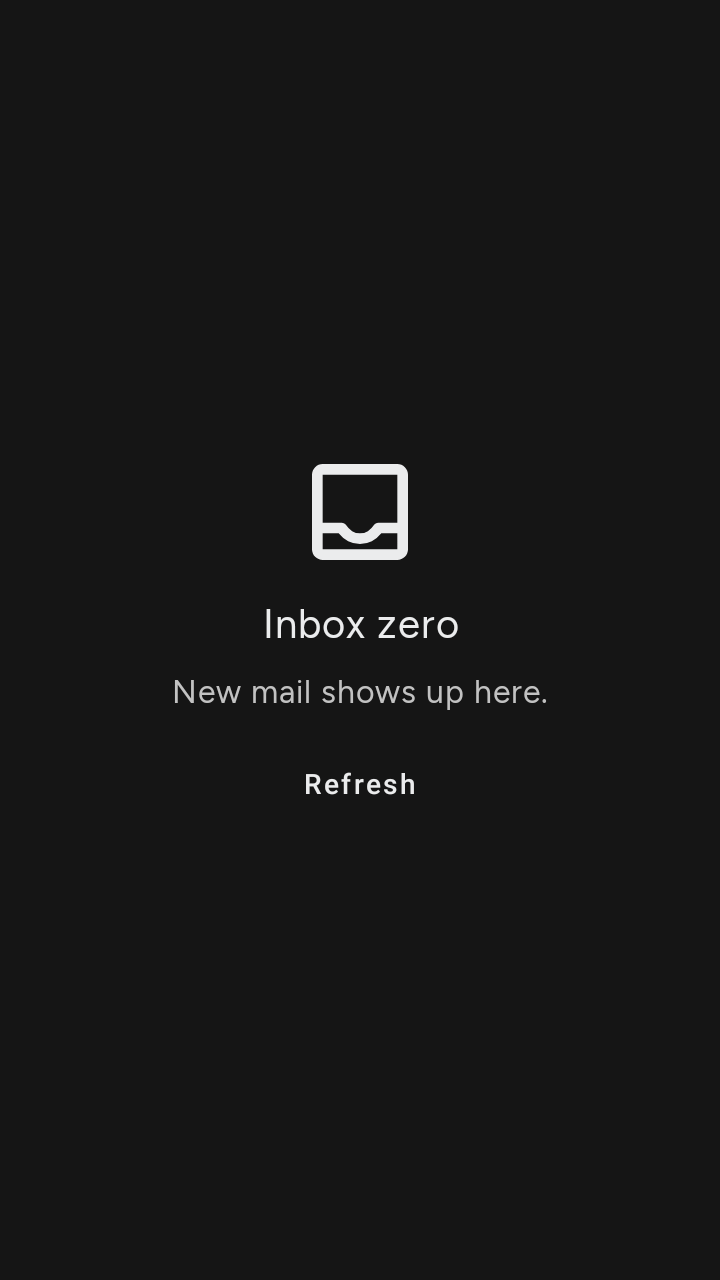
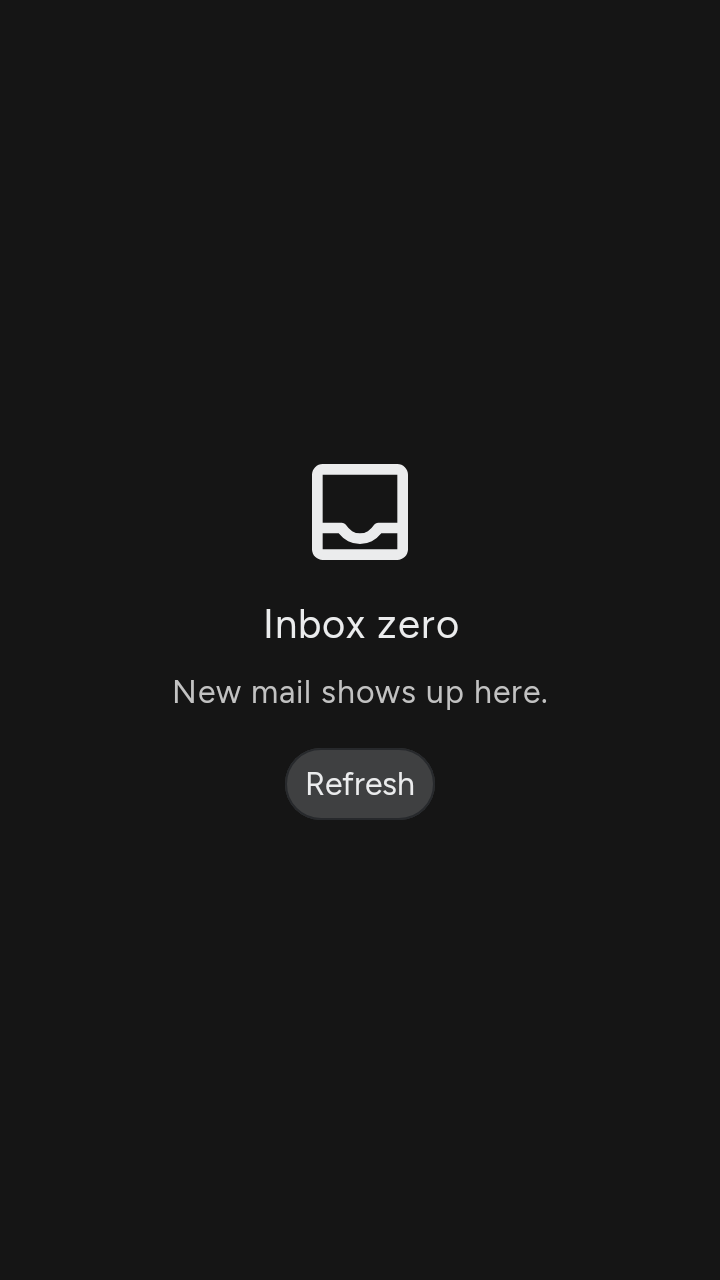
feat(designsystem): show the empty state action as a pill
- Replace the empty state's text button with a ButtonPill filled with bgLight.
- Add a fill parameter to ButtonPill; the default stays bgDark.
- Re-record the empty state screenshot with an action.

Changed region(s): [[0.3972, 0.5625, 0.6111, 0.6562]]

diff --git a/designsystem/src/commonMain/kotlin/com/otus/designsystem/components/EmptyState.kt b/designsystem/src/commonMain/kotlin/com/otus/designsystem/components/EmptyState.kt
@@ -8,11 +8,11 @@ import androidx.compose.foundation.layout.padding
 import androidx.compose.foundation.rememberScrollState
 import androidx.compose.foundation.verticalScroll
 import androidx.compose.material.Text
-import androidx.compose.material.TextButton
 import androidx.compose.runtime.Composable
 import androidx.compose.ui.Alignment
 import androidx.compose.ui.Modifier
 import androidx.compose.ui.text.style.TextAlign
+import com.otus.designsystem.elements.ButtonPill
 import com.otus.designsystem.elements.Symbol
 import com.otus.designsystem.theme.InboxTokens
 import com.otus.designsystem.theme.OtusColors
@@ -47,7 +47,7 @@ public fun EmptyState(
                 color = OtusColors.text2,
                 textAlign = TextAlign.Center,
             )
-            if (actionLabel != null) TextButton(onClick = onAction) { Text(actionLabel) }
+            if (actionLabel != null) ButtonPill(actionLabel, onAction, fill = OtusColors.bgLight)
         }
     }
 }

diff --git a/designsystem/src/commonMain/kotlin/com/otus/designsystem/elements/ButtonPill.kt b/designsystem/src/commonMain/kotlin/com/otus/designsystem/elements/ButtonPill.kt
@@ -15,16 +15,20 @@ import com.otus.designsystem.theme.ComposeTokens
 import com.otus.designsystem.theme.OtusColors
 import com.otus.designsystem.theme.panelTextStyle
 
-/** A pill that acts, such as "+ Cc", with an optional [leading] icon. Screen readers read [description]. */
+/**
+ * A pill that acts, such as "+ Cc", with an optional [leading] icon, filled with [fill]. Screen
+ * readers read [description].
+ */
 @Composable
 public fun ButtonPill(
     label: String,
     onClick: () -> Unit,
     modifier: Modifier = Modifier,
     description: String = label,
+    fill: Color = OtusColors.bgDark,
     leading: (@Composable () -> Unit)? = null,
 ) {
-    ChipFrame(onClick, modifier.semantics { contentDescription = description }, null, true, OtusColors.bgDark) {
+    ChipFrame(onClick, modifier.semantics { contentDescription = description }, null, true, fill) {
         leading?.invoke()
         ChipText(label)
     }
